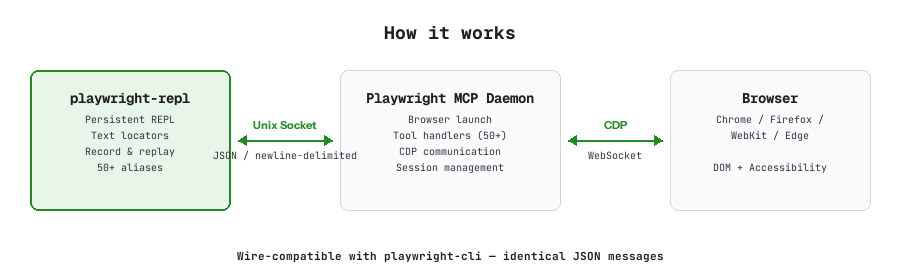
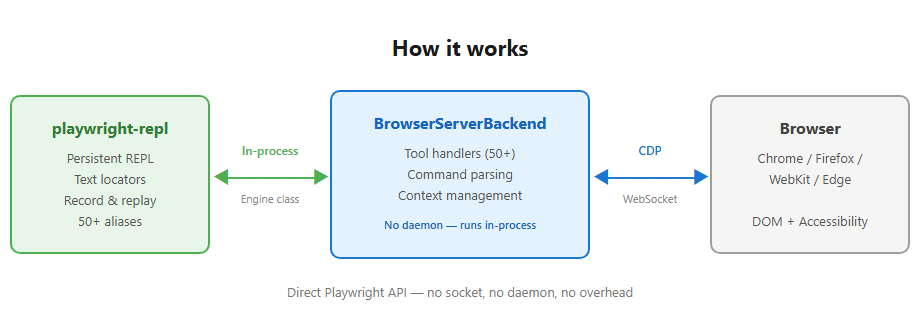
fix Playwright exports map bypass, update diagrams and backlog

diff --git a/BACKLOG.md b/BACKLOG.md
@@ -2,18 +2,18 @@
 
 ## High Priority
 
-- [ ] **History loads in wrong order** — `src/repl.mjs:664`: `.reverse()` before `.push()` means Up arrow shows oldest commands first instead of most recent
-- [ ] **String escaping misses newlines** — `src/repl.mjs:28`: `esc()` for verify commands doesn't escape `\n`, `\r`, `\t` — multiline user input breaks generated code
-- [ ] **Ghost completion crash on empty array** — `src/repl.mjs:592`: `renderGhost(matches[0])` has no guard if `cmds` is empty
+- [ ] **History loads in wrong order** — `packages/cli/src/repl.mjs`: `.reverse()` before `.push()` means Up arrow shows oldest commands first instead of most recent
+- [ ] **String escaping misses newlines** — `packages/cli/src/repl.mjs`: `esc()` for verify commands doesn't escape `\n`, `\r`, `\t` — multiline user input breaks generated code
+- [ ] **Ghost completion crash on empty array** — `packages/cli/src/repl.mjs`: `renderGhost(matches[0])` has no guard if `cmds` is empty
 
 ## Medium Priority
 
-- [ ] **Failed commands not recorded** — `src/repl.mjs:408`: `session.record(line)` only runs after success; replay files miss failed commands
-- [ ] **History write errors silently swallowed** — `src/repl.mjs:473`: `catch {}` hides disk-full or permission errors
-- [ ] **Playwright version too loose** — `package.json:47`: `>=1.59.0-alpha` accepts any future version; pin to `<1.60.0` or similar
+- [ ] **Failed commands not recorded** — `packages/cli/src/repl.mjs`: `session.record(line)` only runs after success; replay files miss failed commands
+- [ ] **History write errors silently swallowed** — `packages/cli/src/repl.mjs`: `catch {}` hides disk-full or permission errors
+- [ ] **Playwright version too loose** — `packages/cli/package.json`: `>=1.59.0-alpha` accepts any future version; pin to `<1.60.0` or similar
 - [ ] **README lists commands that don't exist** — storage commands like `cookie-set`, `cookie-delete`, `localstorage-set` etc. are documented but not in COMMANDS
 
 ## Low Priority
 
-- [ ] **killAll process filter too broad** — matches any process containing `run-mcp-server`, could hit unrelated processes
-- [ ] **Redundant empty-line check in processQueue** — the queue only contains non-empty lines
+- [ ] **Convert to TypeScript** — migrate `.mjs` files to `.ts` across `packages/core` and `packages/cli` for type safety and better IDE support
+- [ ] **Extension server (Phase 8)** — `playwright-repl --extension` starts a WebSocket server; extension connects as thin CDP relay instead of reimplementing all commands

diff --git a/README.md b/README.md
@@ -387,6 +387,14 @@ pw> run-code async (page) => { await page.waitForSelector('.loaded'); return awa
 
 The REPL runs Playwright's `BrowserServerBackend` in-process via an `Engine` class. No daemon, no socket — commands execute directly.
 
+![Architecture](architecture-diagram.png)
+
+### How It Works
+
+![Command Flow](flow-diagram.png)
+
+### Monorepo Structure
+
 ```
 packages/
 ├── core/         # Engine + shared utilities
@@ -400,14 +408,6 @@ packages/
         ├── repl.mjs            # Interactive readline loop
         └── recorder.mjs        # Session recording/replay
 ```
-
-### How It Works
-
-1. **Startup**: The Engine creates a `BrowserServerBackend` with a browser context
-2. **Input**: User types a command like `click e5`
-3. **Parse**: Alias resolution (`c` → `click`) + minimist parsing → `{ _: ["click", "e5"] }`
-4. **Execute**: Engine maps the command to a Playwright tool call and executes it in-process
-5. **Result**: Response rendered in the terminal
 
 ### Connect Mode
 
